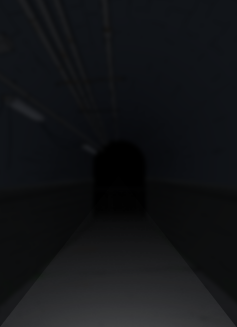
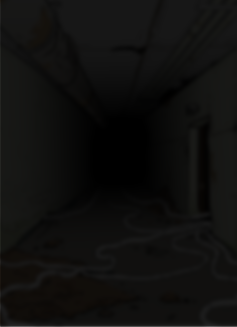
started notes system for game

Changed region(s): [[0.0, 0.8257, 1.0, 1.0], [0.384, 0.4587, 0.4135, 0.4893], [0.3544, 0.4281, 0.384, 0.4587]]

diff --git a/public/scripts/game.js b/public/scripts/game.js
@@ -7,6 +7,8 @@
 		has_flashlight: false,
 		noise: false,
 		elevator: {x: 0, y: 0, z: 0, is_running: false, is_location: false, level: 0},
+		notes: [],
+		notes_open: false,
 	});
 	const clock = new EB_Clock(20); // Start clock
 	const input = new EB_Input([], true); // Init input
@@ -15,10 +17,12 @@
 	const button_sound_true = new EB_Audio('public/assets/audio/elevator_btn_true.mp3', 0.2, false); // Button sound
 	const button_sound_false = new EB_Audio('public/assets/audio/elevator_btn_false.mp3', 0.1, false); // Button sound
 	const flashlight_sound = new EB_Audio('public/assets/audio/elevator_btn.mp3', 0.8, false); // Flashlight sound
+	const notes_sound = new EB_Audio('public/assets/audio/elevator_btn.mp3', 0.8, false); // Flashlight sound
 	const physics = new EB_Physics(); // Init physics
 	const cursor = new EB_Sprite({position: {x: 0, y: 0}, size: {w: 5, h: 5}, image_src: 'public/assets/images/cursor.png', collision_box: { active: true, offset: {x: 0, y: 0}, width: 5, height: 5}});
 	const flashlight = new EB_Sprite({position: {x: -512, y: -288}, size: {w: 2048, h: 1152}, image_src: 'public/assets/images/flashlight_off.png',});
 	const flashlight_icon = new EB_Sprite({position: {x: 20, y: 511}, size: {w: 45, h: 45}, image_src: 'public/assets/images/flashlight_icon.png', collision_box: { active: true, offset: {x: 0, y: 0}, width: 45, height: 45}});
+	const notes_icon = new EB_Sprite({position: {x: 958, y: 511}, size: {w: 45, h: 45}, image_src: 'public/assets/images/notes_icon.png', collision_box: { active: true, offset: {x: 0, y: 0}, width: 45, height: 45}});
 	const noise = new EB_Sprite({position: {x: 0, y: 0}, size: {w: 1024, h: 576}, image_src: 'public/assets/images/noise.png', frames_max: 4,});
 	const background = new EB_Background({position: {x: 0,y: 0}, image_src: 'public/assets/images/level_0.png', loop: false, parallax: 1});
 // <---------------------------------- Base config
@@ -52,10 +56,11 @@
 	let levels_data = {};
 	let levels_index = 0, levels_length = levels.length;
 	while (levels_index < levels_length) { // loop levels
+		let level_slug = levels[levels_index].slug;
 		let level_id = levels[levels_index].id;
 		let scenes = levels[levels_index].scenes;
 		let scenes_index = 0, scenes_length = scenes.length;
-		levels_data[level_id] = {music: new EB_Audio(levels[levels_index].music.path, levels[levels_index].music.volume, levels[levels_index].music.loop)};
+		levels_data[level_id] = {slug: level_slug, music: new EB_Audio(levels[levels_index].music.path, levels[levels_index].music.volume, levels[levels_index].music.loop)};
 		while (scenes_index < scenes_length) { // loop scenes
 			let scene_id = scenes[scenes_index].id;
 			let click_zones = scenes[scenes_index].click_zones;
@@ -70,7 +75,7 @@
 				let actions_index = 0, actions_length = Object.keys(actions).length;
 				while (actions_index < actions_length) { // loop actions
 					if (Object.keys(actions)[actions_index] == 'level_change') {
-						let action_function = function(level_id, scene_id, click_zone_index, actions_index) {
+						let action_function = function(level_slug, level_id, scene_id, click_zone_index, actions_index) {
 							levels_data[game.level][game.scene].click_zones[click_zone_index].sprite.update();
 							if (physics.collision(levels_data[game.level][game.scene].click_zones[click_zone_index].sprite, cursor).any && input.mouse.clicked) {
 								game.level_change(levels_data[level_id][scene_id]['click_zones'][click_zone_index].actions[actions_index].data);
@@ -79,7 +84,7 @@
 						click_zone_actions.push({action:action_function, data: click_zones[click_zone_index].actions.level_change});
 					}
 					if (Object.keys(actions)[actions_index] == 'scene_change') {
-						let action_function = function(level_id, scene_id, click_zone_index, actions_index) {
+						let action_function = function(level_slug, level_id, scene_id, click_zone_index, actions_index) {
 							levels_data[game.level][game.scene].click_zones[click_zone_index].sprite.update();
 							if (physics.collision(levels_data[game.level][game.scene].click_zones[click_zone_index].sprite, cursor).any && input.mouse.clicked) {
 								game.scene_change(levels_data[level_id][scene_id]['click_zones'][click_zone_index].actions[actions_index].data);
@@ -90,14 +95,25 @@
 					// play sound
 					if (Object.keys(actions)[actions_index] == 'play_sound') {
 						levels_data[level_id][scene_id]['click_zones'][click_zone_index]['sound'] = new EB_Audio(actions.play_sound, 1, false);
-						let action_function = function(level_id, scene_id, click_zone_index, actions_index) {
+						let action_function = function(level_slug, level_id, scene_id, click_zone_index, actions_index) {
 							if (physics.collision(levels_data[level_id][scene_id].click_zones[click_zone_index].sprite, cursor).any && input.mouse.clicked) {
 								levels_data[level_id][scene_id].click_zones[click_zone_index].sound.play();
 							}
 						}
 						click_zone_actions.push({action:action_function});
 					}
-
+					// add note
+					if (Object.keys(actions)[actions_index] == 'add_note') {
+						let action_function = function(level_slug, level_id, scene_id, click_zone_index, actions_index) {
+							levels_data[game.level][game.scene].click_zones[click_zone_index].sprite.update();
+							if (physics.collision(levels_data[game.level][game.scene].click_zones[click_zone_index].sprite, cursor).any && input.mouse.clicked) {
+								game.meta.notes.push({id: levels_data[level_id][scene_id]['click_zones'][click_zone_index].actions[actions_index].data, level_slug: level_slug});
+								levels_data[game.level][game.scene].click_zones[click_zone_index].sprite = null;
+								levels_data[level_id][scene_id]['click_zones'].splice(click_zone_index, 1);
+							}
+						}
+						click_zone_actions.push({action:action_function, data: click_zones[click_zone_index].actions.add_note});
+					}
 					actions_index++
 				}
 				levels_data[level_id][scene_id]['click_zones'][click_zone_index]['actions'] = click_zone_actions;
@@ -107,7 +123,6 @@
 		}
 		levels_index++
 	}
-	console.log(levels_data);
 // <---------------------------------- level loop
 
 // Main Menu

diff --git a/public/scripts/update.js b/public/scripts/update.js
@@ -19,7 +19,7 @@ function update() {
 
     let level_break = false;
      // level 0 ---------------------------------->
-    if (game.level === 0 && !level_break) {
+    if (game.level === 0 && !level_break && !game.meta.notes_open) {
         game.meta.dark = false;
         game.meta.noise = false;
         if (game.scene === 1) { 
@@ -132,7 +132,7 @@ function update() {
     // level loop ---------------------------------->
     let levels_index = 0, levels_length = Object.keys(levels_data).length;
     while (levels_index < levels_length) {
-        if (game.level === levels_index + 1 && !level_break) {
+        if (game.level === levels_index + 1 && !level_break && !game.meta.notes_open) {
             game.meta.dark = levels[levels_index].darkness;
             game.meta.noise = levels[levels_index].noises;
             let scene_break = false;
@@ -146,7 +146,7 @@ function update() {
                         let actions = levels_data[game.level][game.scene].click_zones[click_zone_index].actions;
                         let actions_index = 0, actions_length = actions.length;
                         while (actions_index < actions_length) {
-                            actions[actions_index].action(game.level, game.scene, click_zone_index, actions_index);
+                            if (actions[actions_index].action !== undefined) actions[actions_index].action(levels_data[game.level].slug, game.level, game.scene, click_zone_index, actions_index);
                             actions_index++;
                         }
                         click_zone_index++;
@@ -183,6 +183,21 @@ function update() {
             game.meta.flashlight = true;
             flashlight_icon.image.src = 'public/assets/images/flashlight_icon_on.png';
         }
+    }
+    //notes 
+    notes_icon.update();
+    if (physics.collision(notes_icon, cursor).any && input.mouse.clicked) {
+        notes_sound.play(true);
+        if (game.meta.notes_open) {
+            game.meta.notes_open = false;
+            notes_icon.image.src = 'public/assets/images/notes_icon.png';
+        } else {
+            game.meta.notes_open = true;
+            notes_icon.image.src = 'public/assets/images/notes_icon_open.png';
+        }
+    }
+    if (game.meta.notes_open) {
+        background.image.src = 'public/assets/images/notes_bg.png';
     }
     cursor.update();
     input.update();

diff --git a/public/data/levels.js b/public/data/levels.js
@@ -39,13 +39,15 @@ const levels =[
                 background: "public/assets/images/the_tunnel/scene_1.png",
                 click_zones: [
                     {x:180, y:526, width:650, height:50, image_src:'', actions: {level_change: 0}},
+                    {x:620, y:240, width:40, height:170, image_src:'', actions: {scene_change: 2}}
                 ]
             },
             {
                 id: 2,
                 background: "public/assets/images/the_tunnel/scene_2.png",
                 click_zones: [
-                    {x:0, y:0, width:1, height:1, image_src:'', actions: {scene_change: 1}},
+                    {x:305, y:536, width:400, height:40, image_src:'', actions: {scene_change: 1}},
+                    {x:620, y:240, width:30, height:35, image_src:'public/assets/images/the_tunnel/note_1.png', actions: {add_note: 1}}
                 ]
             }
         ]
